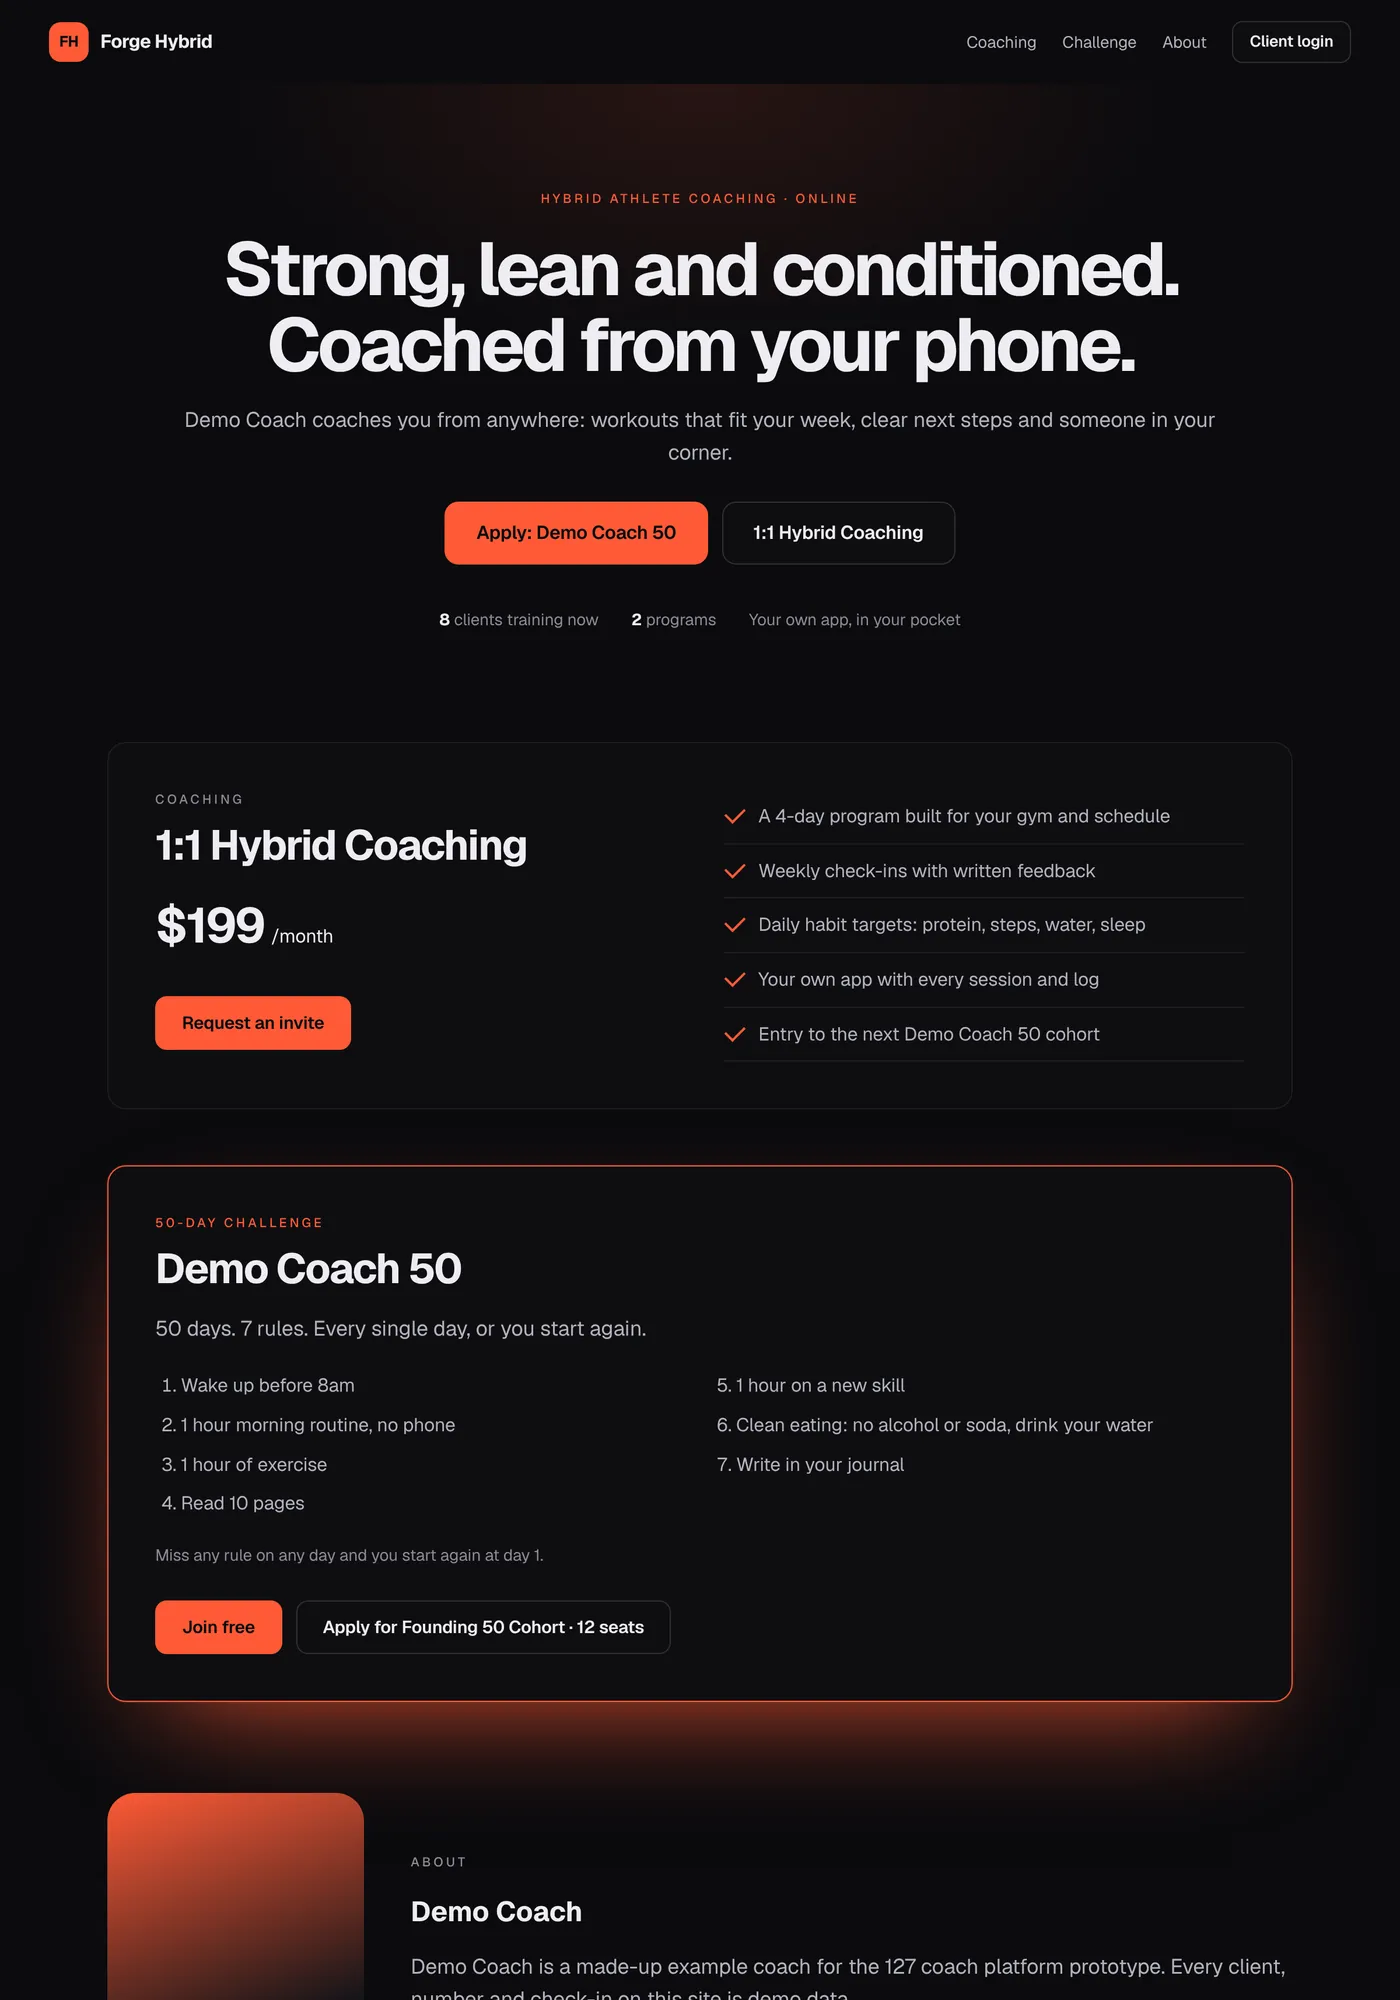
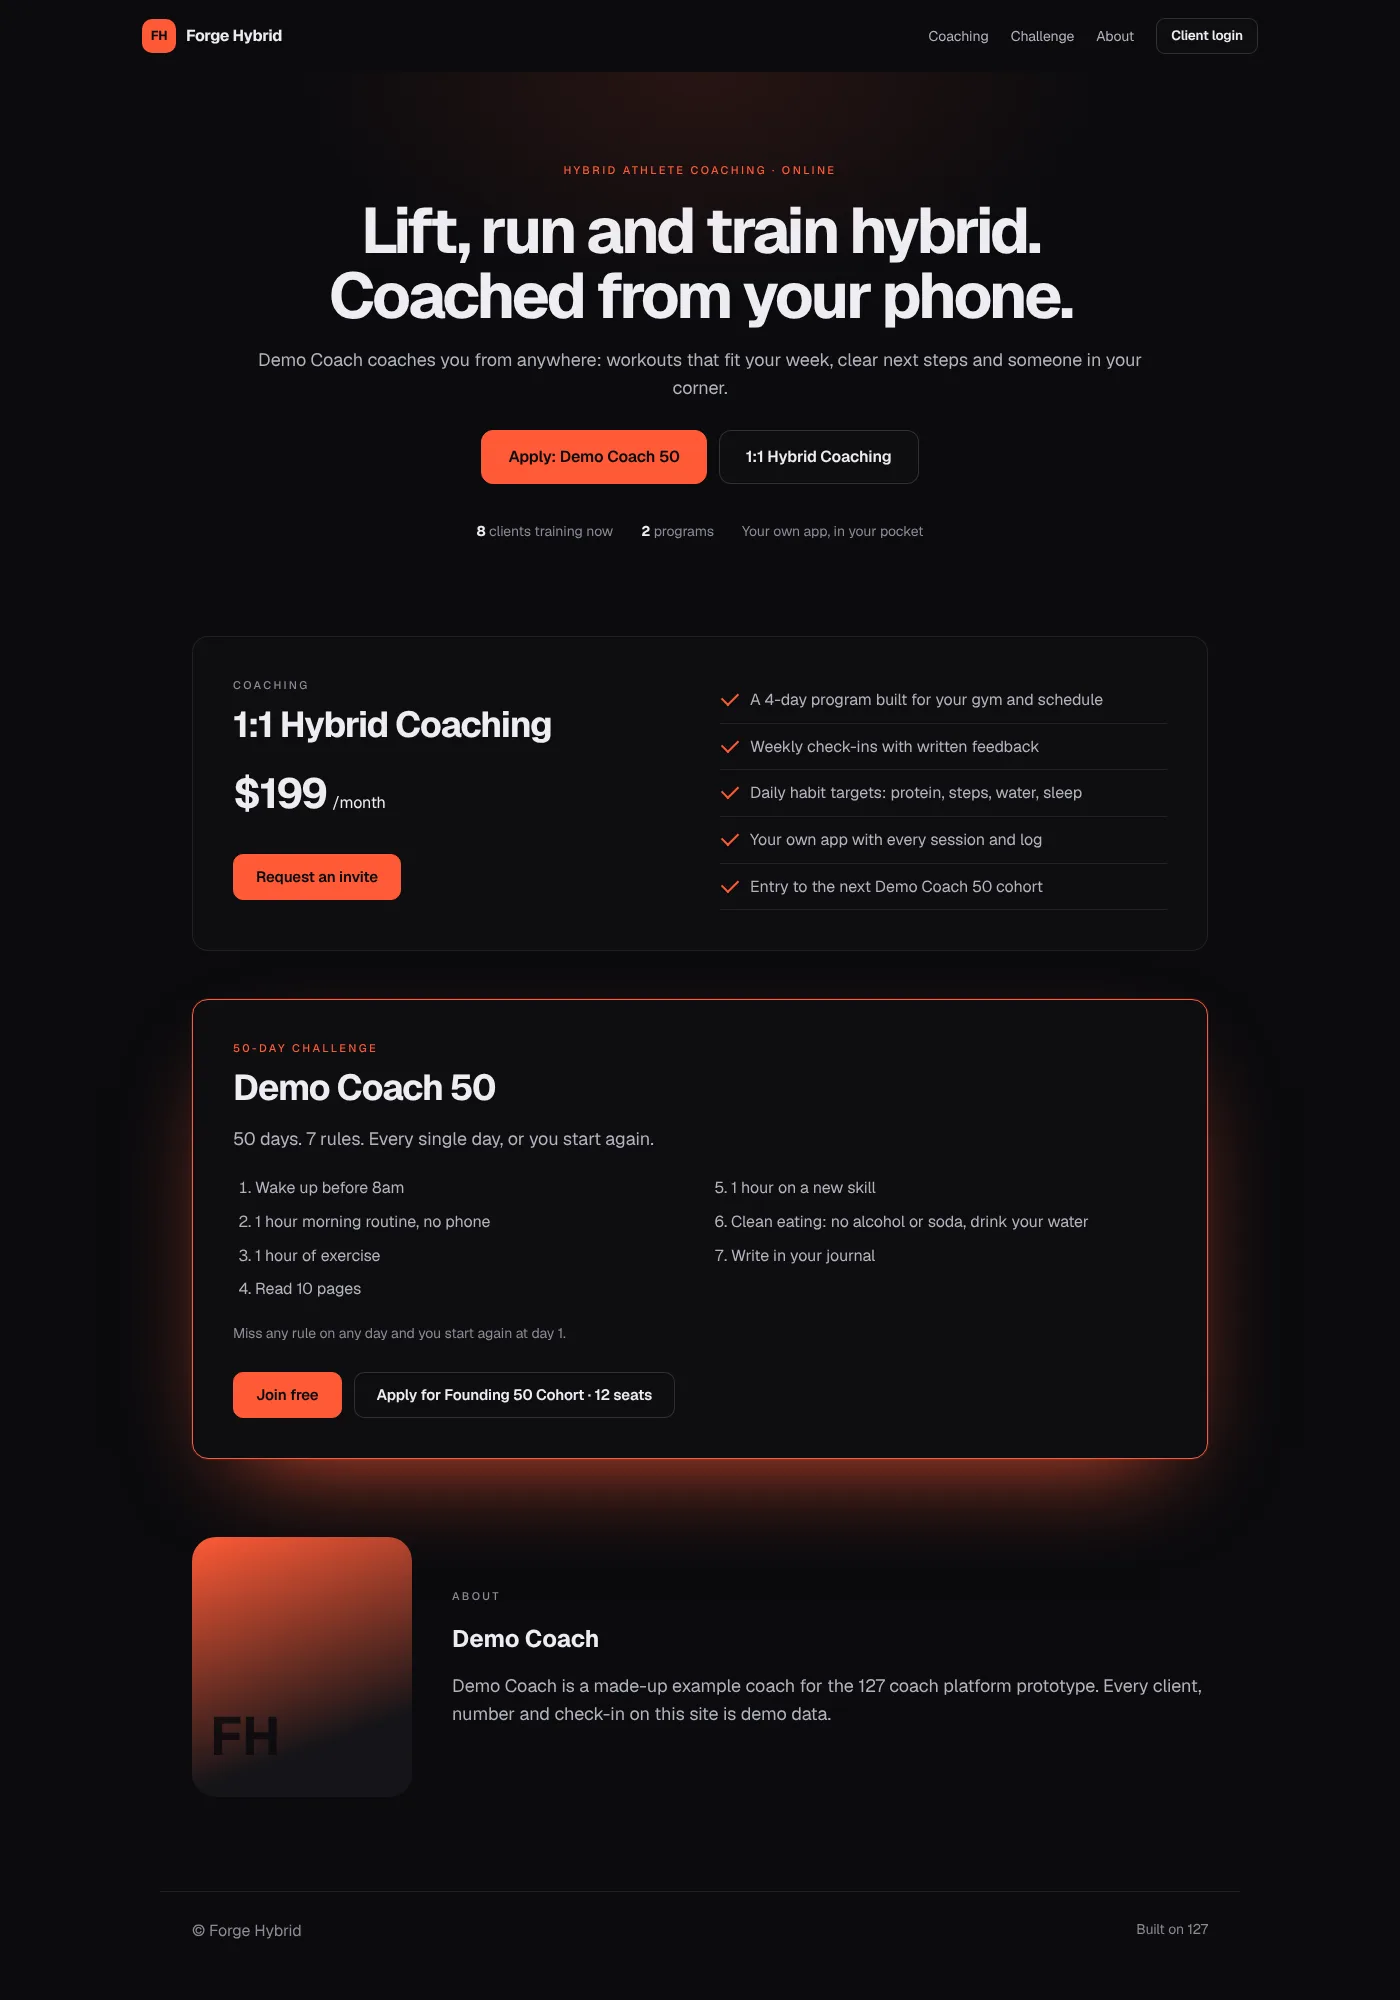
Coach launch: retire founder pages and funnels, coach sign-up buttons, QA fixes
With COACH_HOME=on: /pricing, /founding, /founding/lock (GET and POST),
/about, /score, /stack, /idea-test and /media-kit redirect (302, noindex)
to the coach page; signed-out /start and /signup go to /coaches/join;
sitemap lists coach pages only. Coach page buttons go to /coaches/join.
/favicon.ico, no mid-word headline breaks in kit looks, scroll margin under
the sticky header, old founder copy and the Fix my site line removed,
/circle hero for coaches, demo coach headline makes no result promise
(re-captured hero screen).

Claude-Session: https://claude.ai/code/session_01DVS861AoZnrc7WLLu9kCTF

diff --git a/public/coaches/index.html b/public/coaches/index.html
@@ -52,6 +52,7 @@ button,input,select,textarea{font:inherit;color:inherit}
 /* Hero: the form is the hero. Water light rises behind it (emerald from below, no overlay image). */
 .hero{position:relative;padding:44px 0 28px;overflow:hidden}
 .hero::before{content:"";position:absolute;inset:auto -20% -40% -20%;height:70%;background:radial-gradient(60% 60% at 50% 100%,rgba(62,230,160,.22),transparent 70%);pointer-events:none}
+[id]{scroll-margin-top:84px}
 .eyebrow{font-size:12px;letter-spacing:.12em;text-transform:uppercase;color:var(--emerald);font-weight:600}
 h1{font-size:clamp(34px,8.4vw,68px);line-height:1.02;letter-spacing:-.045em;margin:12px 0 14px;font-weight:700;max-width:14ch}
 .lede{font-size:clamp(17px,2.4vw,20px);color:var(--ink-2);max-width:40ch;margin:0 0 24px}
@@ -334,8 +335,8 @@ h1.h1,.h1{font-size:clamp(30px,6vw,52px);line-height:1.04;letter-spacing:-.04em;
 .cs-hero .grid{display:grid;gap:28px}
 .cs-kick{display:inline-flex;align-items:center;gap:8px;font-size:12px;letter-spacing:.14em;text-transform:uppercase;font-weight:700;color:var(--ink2);margin:0 0 18px}
 .cs-kick::before{content:"";width:8px;height:8px;border-radius:50%;background:var(--ac);box-shadow:0 0 0 4px color-mix(in srgb,var(--ac) 25%,transparent)}
-.cs .cs-hero h1,.cs .cs-hero h2{font-size:calc(52px * var(--hs));margin:0 0 18px;overflow-wrap:anywhere}
-.cs .cs-hero h1.long,.cs .cs-hero h2.long{font-size:calc(40px * var(--hs))}
+.cs .cs-hero h1,.cs .cs-hero h2{font-size:min(calc(52px * var(--hs)),10.5cqw);margin:0 0 18px;overflow-wrap:normal;word-break:normal;hyphens:manual}
+.cs .cs-hero h1.long,.cs .cs-hero h2.long{font-size:min(calc(40px * var(--hs)),9cqw)}
 .cs-hero .sub{font-size:18px;color:var(--ink2);max-width:40ch;margin:0 0 26px}
 .cs-ctas{display:flex;gap:10px;flex-wrap:wrap}
 .cs-card .pr a,.cs-links a{display:inline-flex;align-items:center;min-height:44px}
@@ -451,7 +452,7 @@ h1.h1,.h1{font-size:clamp(30px,6vw,52px);line-height:1.04;letter-spacing:-.04em;
 <body>
 <header class="top"><div class="wrap">
   <a class="mark" href="/">127</a>
-  <nav><a class="hide-s" href="#kit">The kit</a><a class="hide-s" href="#pricing">Pricing</a><a href="/login?next=/coaches/%23kit">Sign in</a><a class="btn" href="/start?next=/coaches/%23build">Start free</a></nav>
+  <nav><a class="hide-s" href="#kit">The kit</a><a class="hide-s" href="#pricing">Pricing</a><a href="/login?next=/coaches/%23kit">Sign in</a><a class="btn" href="/coaches/join?next=%2Fcoaches%2F%23build">Start free</a></nav>
 </div></header>
 
 <main>
@@ -462,7 +463,7 @@ h1.h1,.h1{font-size:clamp(30px,6vw,52px);line-height:1.04;letter-spacing:-.04em;
     <h1 class="rise d1" id="heroTitle">Launch your own coaching platform from one form.</h1>
     <p class="lede rise d2">Your website, challenge, client app and coach dashboard, built for your coaching business.</p>
     <div class="cta-row rise d3">
-      <a class="btn" href="/start?next=/coaches/%23build">Start free <svg viewBox="0 0 24 24" fill="none" stroke="currentColor" stroke-width="2.2" stroke-linecap="round" stroke-linejoin="round" aria-hidden="true"><path d="M5 12h14M13 6l6 6-6 6"/></svg></a>
+      <a class="btn" href="/coaches/join?next=%2Fcoaches%2F%23build">Start free <svg viewBox="0 0 24 24" fill="none" stroke="currentColor" stroke-width="2.2" stroke-linecap="round" stroke-linejoin="round" aria-hidden="true"><path d="M5 12h14M13 6l6 6-6 6"/></svg></a>
       <a class="btn ghost" href="#kit">See what's included</a>
     </div>
     <div class="get rise d4">
@@ -590,7 +591,6 @@ h1.h1,.h1{font-size:clamp(30px,6vw,52px);line-height:1.04;letter-spacing:-.04em;
 
 <section class="sec"><div class="wrap">
   <h2>Everything a coach pays five tools for.</h2>
-  <p class="lede">The kit is built from the same engine 127 members already run their business in.</p>
   <div class="parts">
     <div class="part"><h3>Website</h3><p>Your program, how it works, your story and an apply button. Yours to host, free.</p></div>
     <div class="part"><h3>Challenge page</h3><p>Dates, daily rules, what's included, a countdown and the price, ready for your link in bio.</p></div>
@@ -606,10 +606,10 @@ h1.h1,.h1{font-size:clamp(30px,6vw,52px);line-height:1.04;letter-spacing:-.04em;
   <div class="tiers">
     <div class="tier"><div class="name">Free</div><div class="price">$0</div>
       <ul><li>Your website</li><li>Your challenge page</li><li>The launch kit to copy</li></ul>
-      <a class="btn ghost" href="/start?next=/coaches/%23build">Start free</a></div>
+      <a class="btn ghost" href="/coaches/join?next=%2Fcoaches%2F%23build">Start free</a></div>
     <div class="tier lead"><div class="name">Coach</div><div class="price">$149<small> a month</small></div>
       <ul><li>Your site and challenge page live, in your brand</li><li>The client app in your colors, when client sign-ups open</li><li>Coach dashboard: who checked in, who to message</li><li>The full launch kit, yours to edit</li></ul>
-      <a class="btn" href="/start?next=/coaches/%23build">Start as a coach</a></div>
+      <a class="btn" href="/coaches/join?next=%2Fcoaches%2F%23build">Start as a coach</a></div>
     <div class="tier"><div class="name">Founder's Circle</div><div class="price">$299<small> a month</small></div>
       <ul><li>Everything in Coach</li><li>Your kit built with Eli on a call</li><li>Weekly calls and a private group</li><li>4 seats, by application</li></ul>
       <a class="btn ghost" href="/circle/apply">Apply</a></div>
@@ -619,14 +619,14 @@ h1.h1,.h1{font-size:clamp(30px,6vw,52px);line-height:1.04;letter-spacing:-.04em;
 
 <section class="sec faq"><div class="wrap">
   <h2>Questions coaches ask</h2>
-  <details><summary>Do I need a website already?</summary><p>No. The kit builds one. If you have one, Fix my site can rebuild it from what's there.</p></details>
+  <details><summary>Do I need a website already?</summary><p>No. The kit builds one.</p></details>
   <details><summary>Can my clients use the app on their phone?</summary><p>Yes. They open a link and add it to their home screen. It works offline and saves every set.</p></details>
   <details><summary>Will it write fake testimonials or results?</summary><p>No. The kit leaves a spot for a client's own words, used only with their written OK, and never writes weight, body or money claims.</p></details>
   <details><summary>Is it only for fitness coaches?</summary><p>It's built for fitness first. Nutrition, run and mindset coaches can use it today; their own templates come next.</p></details>
 </div></section>
 </main>
 <footer><div class="wrap foot">
-  <p>127 Group LLC. Make today day one. Built by Eli Christiansen, 4x founder.</p>
+  <p>127 Group LLC. Built by Eli Christiansen, 4x founder.</p>
   <nav class="foot-links"><a href="#pricing">Pricing</a><a href="/circle">Founder's Circle</a><a href="/privacy">Privacy</a><a href="/terms">Terms</a><a href="/earnings-disclaimer">Earnings disclaimer</a><a href="/cookies">Cookie Notice</a><a href="/login">Sign in</a></nav>
 </div></footer>
 <div class="toast" id="toast"></div>

diff --git a/server.js b/server.js
@@ -228,6 +228,21 @@ app.use((req, res, next) => {
   res.locals.launch = launch.view();
   // The coach homepage is the front door (COACH_HOME=on): the shared header, footer and bio page follow it.
   res.locals.coachHome = process.env.COACH_HOME === 'on';
+  next();
+});
+// COACH_HOME=on (Grok QA, Nov 18): the old founder offer and funnels are retired. The $19 Builder pages, the old free
+// tools and the founder roadmap picker send people to the coach page; the $19 payment form is off. Members who are
+// signed in keep /start (retakes). Off: every page works as before. 302s, so turning it off brings them back.
+const COACH_RETIRED = { '/pricing': '/#pricing', '/founding': '/#pricing', '/founding/lock': '/#pricing', '/about': '/#pricing', '/score': '/', '/stack': '/', '/idea-test': '/', '/media-kit': '/' };
+app.use((req, res, next) => {
+  if (process.env.COACH_HOME !== 'on') return next();
+  const p = req.path.replace(/\/+$/, '') || '/';
+  if (COACH_RETIRED[p]) { res.set('X-Robots-Tag', 'noindex'); return res.redirect(302, COACH_RETIRED[p]); }
+  if ((p === '/start' || p === '/signup') && !req.user) return res.redirect(302, '/coaches/join?next=' + encodeURIComponent('/coaches/#build'));
+  next();
+});
+app.use((req, res, next) => {
+  const user = req.user;
   // First 25 on real business data (defined with the homepage route): the footer links it, the hero and bio page lead with it.
   res.locals.first25Live = first25Live();
   res.locals.consentCopy = consent.copy;
@@ -809,11 +824,12 @@ app.get('/founding/confirm', wrap(async (req, res) => {
 // Calendar reminder for doors opening, so people who didn't tick the box still know when to come back.
 app.get('/links', (req, res) => res.render('links', { title: 'Links', ...(process.env.COACH_HOME === 'on' ? { ogImage: '/img/og-coach.png' } : {}), description: process.env.COACH_HOME === 'on' ? 'Eli Christiansen: 127 for online fitness coaches. Build your coach kit free, see the coach plan, or apply to the Founder\'s Circle.' : first25Live() ? 'Eli Christiansen: First 25, the founding list, the Founder Score, the Day One Stack, the free Idea Test and the Founder\'s Circle.' : 'Eli Christiansen: the founding list, the Founder Score, the Day One Stack, the free Idea Test and the Founder\'s Circle.', first25: first25Live() }));
 
+app.get('/favicon.ico', (req, res) => res.redirect(301, '/favicon-32.png'));
 app.get('/robots.txt', (req, res) => {
   res.type('text/plain').send(`User-agent: *\nAllow: /\nDisallow: /app\nDisallow: /admin\nDisallow: /api\nDisallow: /billing\nDisallow: /founding/status\nDisallow: /founding/confirm\nDisallow: /stack/guide\n\nSitemap: ${baseUrl(req)}/sitemap.xml\n`);
 });
 app.get('/sitemap.xml', (req, res) => {
-  const pages = ['/', '/founding', '/pricing', '/circle', '/score', '/stack', '/idea-test', '/media-kit', '/links', '/terms', '/privacy'];
+  const pages = process.env.COACH_HOME === 'on' ? ['/', '/circle', '/links', '/terms', '/privacy'] : ['/', '/founding', '/pricing', '/circle', '/score', '/stack', '/idea-test', '/media-kit', '/links', '/terms', '/privacy'];
   if (process.env.MEMBERSHIP_TERMS_LIVE === 'true') pages.push('/membership-terms');
   if (process.env.CIRCLE_AGREEMENT_LIVE === 'true') pages.push('/circle-agreement');
   res.type('application/xml').send(`<?xml version="1.0" encoding="UTF-8"?>\n<urlset xmlns="http://www.sitemaps.org/schemas/sitemap/0.9">\n${pages.map((p) => `  <url><loc>${baseUrl(req)}${p}</loc></url>`).join('\n')}\n</urlset>\n`);

diff --git a/scripts/seed-coach-demo.js b/scripts/seed-coach-demo.js
@@ -80,7 +80,7 @@ async function main() {
   const cu = await userDoc(`coach@${DOMAIN}`, 'Demo Coach', { role: 'coach' });
   const { coach: c } = await coach.saveCoach(cu, {
     brandName: 'Forge Hybrid', coachName: 'Demo Coach', slug: 'demo-coach', initials: 'FH', accent: '#ff5a36', niche: 'hybrid',
-    headline: 'Strong, lean and conditioned. Coached from your phone.',
+    headline: 'Lift, run and train hybrid. Coached from your phone.',
     bio: 'Demo Coach is a made-up example coach for the 127 coach platform prototype. Every client, number and check-in on this site is demo data.',
     offerTitle: '1:1 Hybrid Coaching', offerPrice: '199',
     offerBullets: 'A 4-day program built for your gym and schedule\nWeekly check-ins with written feedback\nDaily habit targets: protein, steps, water, sleep\nYour own app with every session and log\nEntry to the next Demo Coach 50 cohort',
